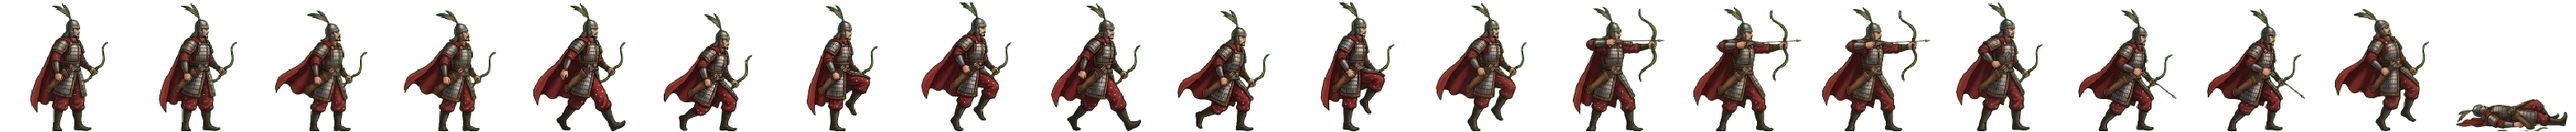
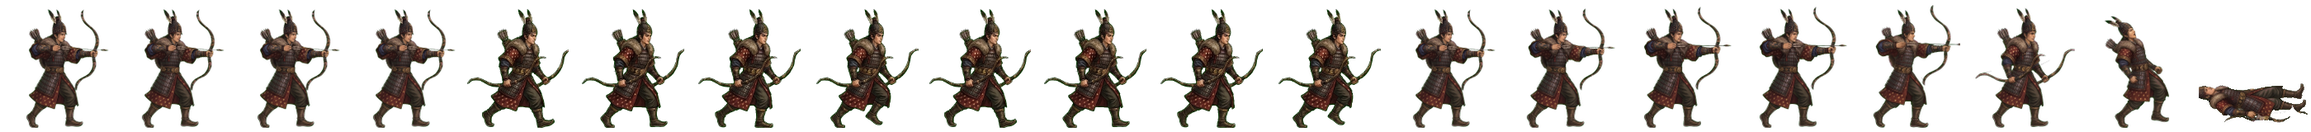
전투 띠 다시: 주몽 초상대로 (깃털 관·털 깃·붉은 점무늬 옷 · 활 당기기 만작 쏘기) (형 11-08)
Claude-Session: https://claude.ai/code/session_01TRiuNAG8xSjdmjCFpc8Rd5

Changed region(s): [[0.0, 0.0312, 1.0, 1.0], [0.4971, 0.0312, 0.5282, 0.0938]]

diff --git a/src/realm/data/art.ts b/src/realm/data/art.ts
@@ -472,7 +472,7 @@ export const GEN_ANIM: Readonly<Partial<Record<string, { ar: number; body: numbe
   'w-bow': { ar: 140 / 160, body: 0.968 }, // 11-04 우하단 두 컷(걷기 8 · 쓰러짐)을 별표 없는 장으로 갈아 끼움
   mount: { ar: 246 / 160, body: 0.968 },
   // 제 그림 (GEN_OWN) — 글 주문만으로 받은 장수 (docs/realm/GENERAL-SPRITES.md)
-  jumong: { ar: 156 / 160, body: 0.961, bow: true }, // 11-03 20컷 다시 (걷기가 한 자세였다 · 우하단 칸은 비워 받음)
+  jumong: { ar: 140 / 160, body: 0.900, bow: true }, // 11-08 초상대로 다시 (형: 「투구 쓰고 원본과 다르다」 · 제미나이 걷기 4×2 + 동작 4×2 → 20컷 · assets_src/realm/gemini/generals2)
   onjo: { ar: 157 / 160, body: 0.900 }, // 11-08 초상대로 다시 (형: 「투구 쓰고 원본과 다르다」 · 제미나이 걷기 4×2 + 동작 4×2 → 20컷 · assets_src/realm/gemini/generals2)
   soseono: { ar: 156 / 160, body: 0.900 }, // 11-08 초상대로 다시 (형: 「투구 쓰고 원본과 다르다」 · 제미나이 걷기 4×2 + 동작 4×2 → 20컷 · assets_src/realm/gemini/generals2) · 전투 옷은 더 드러나게 (형 11-08)
   aryeong: { ar: 157 / 160, body: 0.900 }, // 11-08 초상대로 다시 (형: 「투구 쓰고 원본과 다르다」 · 제미나이 걷기 4×2 + 동작 4×2 → 20컷 · assets_src/realm/gemini/generals2) · 전투 옷은 더 드러나게 (형 11-08)

diff --git a/src/ui/realm/battle-strikes.ts b/src/ui/realm/battle-strikes.ts
@@ -127,7 +127,7 @@ interface Actor extends Unit {
 const RELEASE: Readonly<Record<string, [number, number, number]>> = {
   bow: [14, .614, .34], crossbow: [14, .59, .22],
   'gen-g-bow': [14, .82, .35], 'gen-w-bow': [13, .87, .31],
-  'gen-jumong': [14, .87, .35], 'gen-maenun': [14, .88, .34],
+  'gen-jumong': [14, 0.97, 0.34], 'gen-maenun': [14, .88, .34],
   'gen-ogan': [14, .87, .32], 'gen-haedal': [14, 0.91, 0.26],
   'gen-songbi': [14, 0.91, 0.24], 'gen-damul': [14, .86, .34],
   'gen-songyang': [14, .86, .34],
